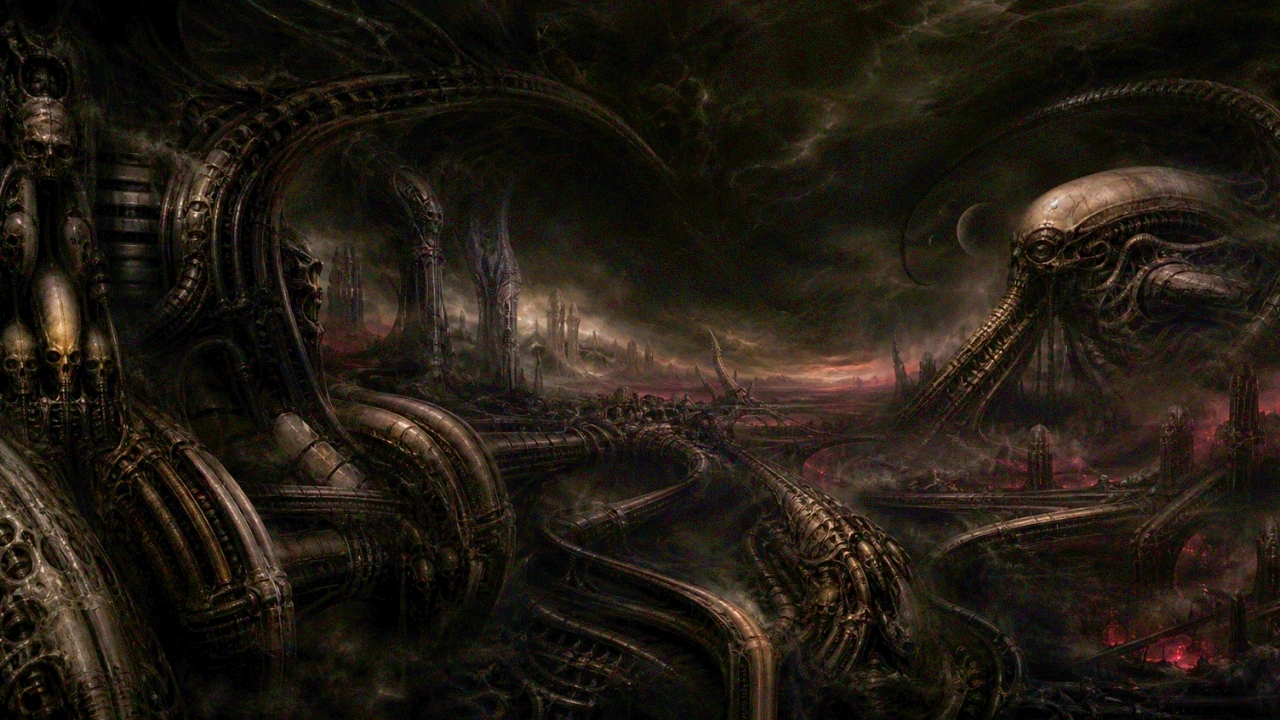
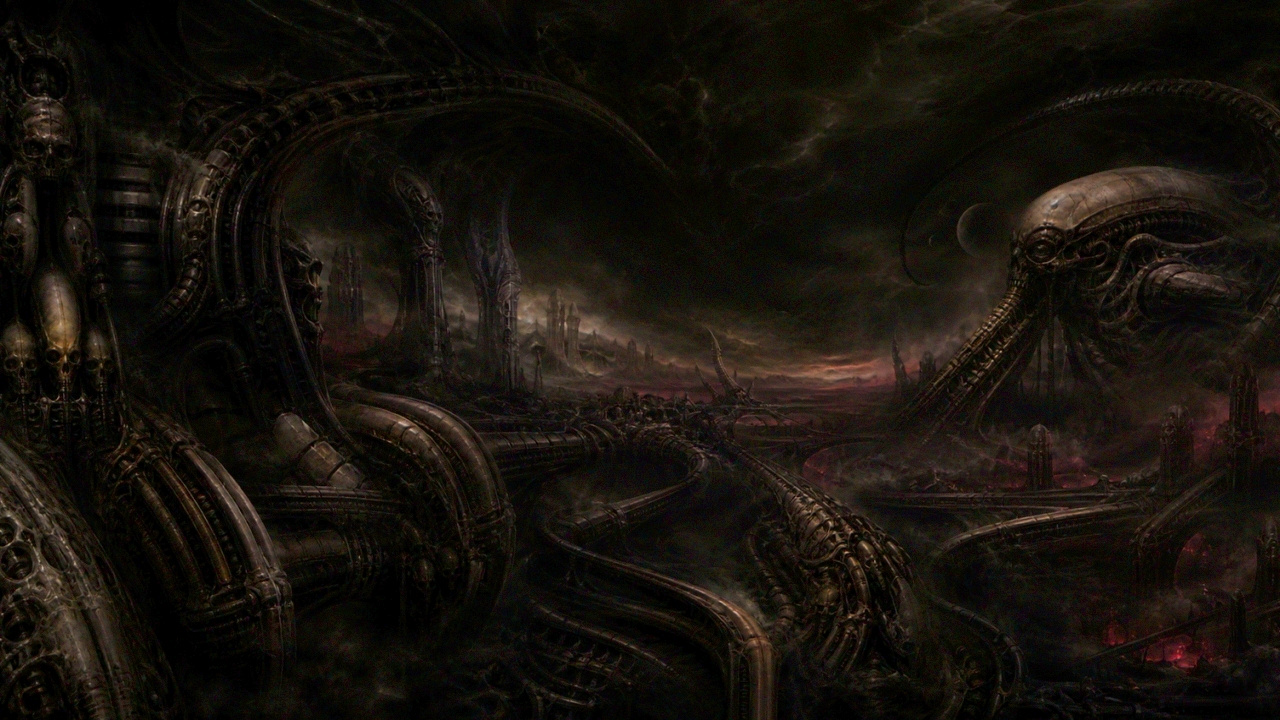
Add Harvest local normal-light prototype

diff --git a/src/ui_board.c b/src/ui_board.c
@@ -108,6 +108,11 @@ void board_load_assets(BoardAssets *ba) {
         "assets/face.jpg", "assets/realm.jpg"
     };
     for (int i = 0; i < 8; i++) ba->bgs[i] = LoadTexture(get_path(bg_names[i]));
+    ba->harvest_normal = LoadTexture(get_path("assets/harvest_normal.png"));
+    if (ba->harvest_normal.id > 0) {
+        SetTextureFilter(ba->harvest_normal, TEXTURE_FILTER_BILINEAR);
+        SetTextureWrap(ba->harvest_normal, TEXTURE_WRAP_CLAMP);
+    }
 
 #ifdef __EMSCRIPTEN__
     ba->fog_shader = LoadShader(0, get_path("assets/depth_fog_web.fs"));
@@ -115,7 +120,12 @@ void board_load_assets(BoardAssets *ba) {
     ba->fog_shader = LoadShader(0, get_path("assets/depth_fog.fs"));
 #endif
     ba->has_fog_shader = (ba->fog_shader.id > 0);
-    if (ba->has_fog_shader) ba->fog_time_loc = GetShaderLocation(ba->fog_shader, "time");
+    ba->light_normal_loc = ba->light_enabled_loc = -1;
+    if (ba->has_fog_shader) {
+        ba->fog_time_loc = GetShaderLocation(ba->fog_shader, "time");
+        ba->light_normal_loc = GetShaderLocation(ba->fog_shader, "normalMap");
+        ba->light_enabled_loc = GetShaderLocation(ba->fog_shader, "lightEnabled");
+    }
 
     ba->current_bg = 0; ba->assets_loaded = 1;
 }
@@ -128,6 +138,7 @@ void board_unload_assets(BoardAssets *ba) {
     if (ba->coin_silver.id > 0) UnloadTexture(ba->coin_silver);
     if (ba->coin_bronze.id > 0) UnloadTexture(ba->coin_bronze);
     for (int i = 0; i < 8; i++) UnloadTexture(ba->bgs[i]);
+    if (ba->harvest_normal.id > 0) UnloadTexture(ba->harvest_normal);
     if (ba->has_fog_shader) { UnloadShader(ba->fog_shader); ba->has_fog_shader = 0; }
     ba->assets_loaded = 0;
 }
@@ -245,8 +256,13 @@ void board_draw_table(const BoardAssets *ba, const GameState *g, const AnimState
 
     /* 1. Background with hybrid 3D depth-fog shader */
     if (ba->has_fog_shader) {
+        float light_enabled = (ba->current_bg == 0 && ba->harvest_normal.id > 0 &&
+                               ba->light_normal_loc >= 0 && ba->light_enabled_loc >= 0) ? 1.0f : 0.0f;
         SetShaderValue(ba->fog_shader, ba->fog_time_loc, &cur_time, SHADER_UNIFORM_FLOAT);
+        SetShaderValue(ba->fog_shader, ba->light_enabled_loc, &light_enabled, SHADER_UNIFORM_FLOAT);
         BeginShaderMode(ba->fog_shader);
+        if (light_enabled > 0.0f)
+            SetShaderValueTexture(ba->fog_shader, ba->light_normal_loc, ba->harvest_normal);
     }
     if (ba->current_bg >= 0 && ba->current_bg < 8 && ba->bgs[ba->current_bg].id > 0) {
         DrawTexturePro(ba->bgs[ba->current_bg], (Rectangle){ 0, 0, 1280, 720 }, (Rectangle){ 0, 0, 1280, 720 }, (Vector2){ 0, 0 }, 0.0f, WHITE);

diff --git a/src/ui_board.h b/src/ui_board.h
@@ -14,10 +14,12 @@ typedef struct {
     Texture2D coin_silver;
     Texture2D coin_bronze;
     Texture2D bgs[8];
+    Texture2D harvest_normal;
     int current_bg;
     int assets_loaded;
     Shader fog_shader;
     int fog_time_loc;
+    int light_normal_loc, light_enabled_loc;
     int has_fog_shader;
 } BoardAssets;
 

diff --git a/STATUS.md b/STATUS.md
@@ -4,6 +4,12 @@
 # XENO/KOI: BIOMECHANICAL EDITION - STATUS REPORT
 **Last updated: 20 October 2026.** This is a development handoff for the local source, not a release or deployment record. Code in `src/` defines behavior; the wiki in `docs/` explains the rules. See `AGENTS.md` for contributor guardrails and `docs/errata.md` for known issues.
 
+## Harvest local-light prototype — 20 October 2026
+
+- Harvest only: replaced its background with the approved TOP / Medium 4.0 no-gamma bake and added an RGBA Medium 4.0 normal texture whose alpha is the approved smoothed height mask. The desktop/web fog shaders add the approved positive local top light on raised forms only; fog values, every other background, Deus, rules, cards, and scoring are unchanged.
+- Verification actually run: strict C99 syntax checks for all `src/*.c` against Raylib 5.5 headers; engine suite passed (500 matches); headless table UI suite passed; desktop/web shader-body parity checked; both Harvest assets are 1280×720 and byte-match the approved preview outputs.
+- Remaining verification: maintainer GPU playtest on desktop/web, including shader rendering, Harvest in-match appearance under existing fog/post-processing, and confirmation that other backgrounds remain visually unchanged. Do not roll out to the other backgrounds before this Gate C decision.
+
 ## Status Summary
 ## Latest completed work
 
